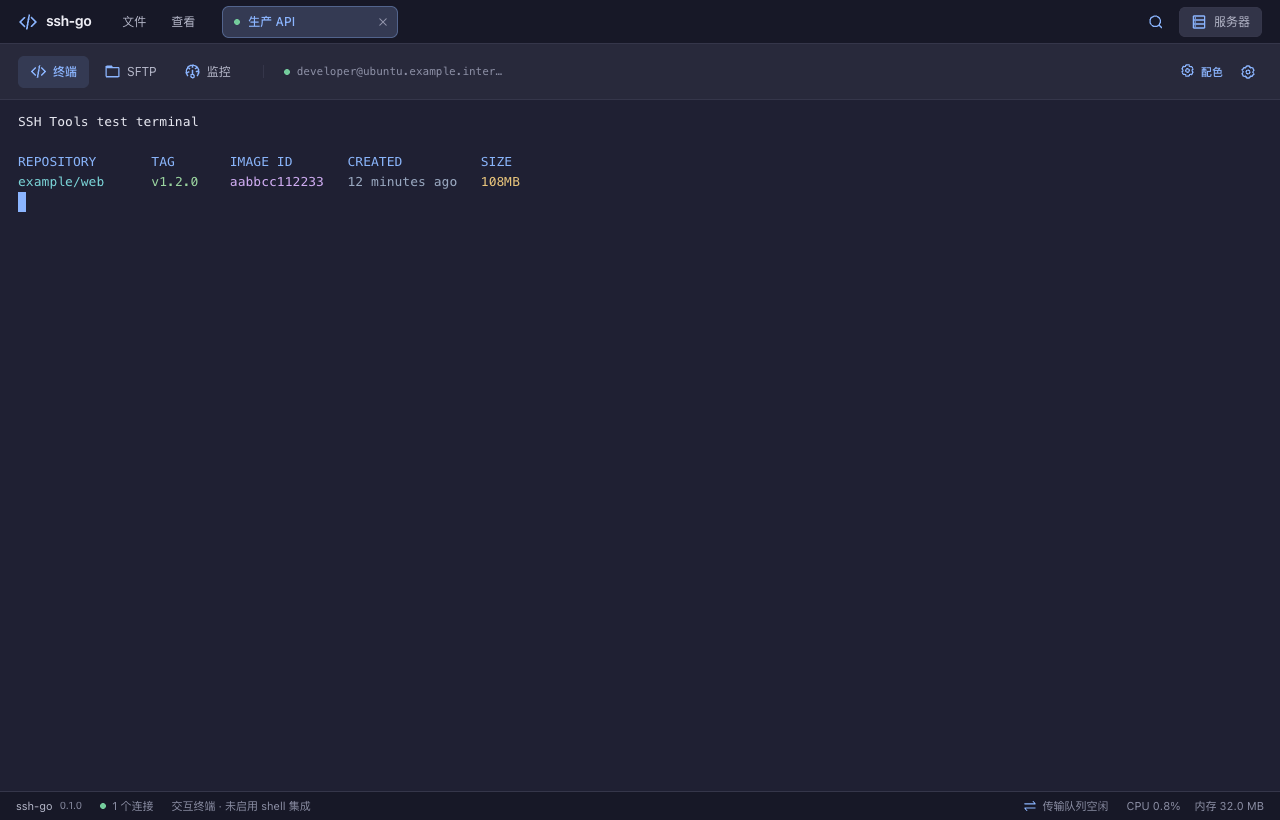
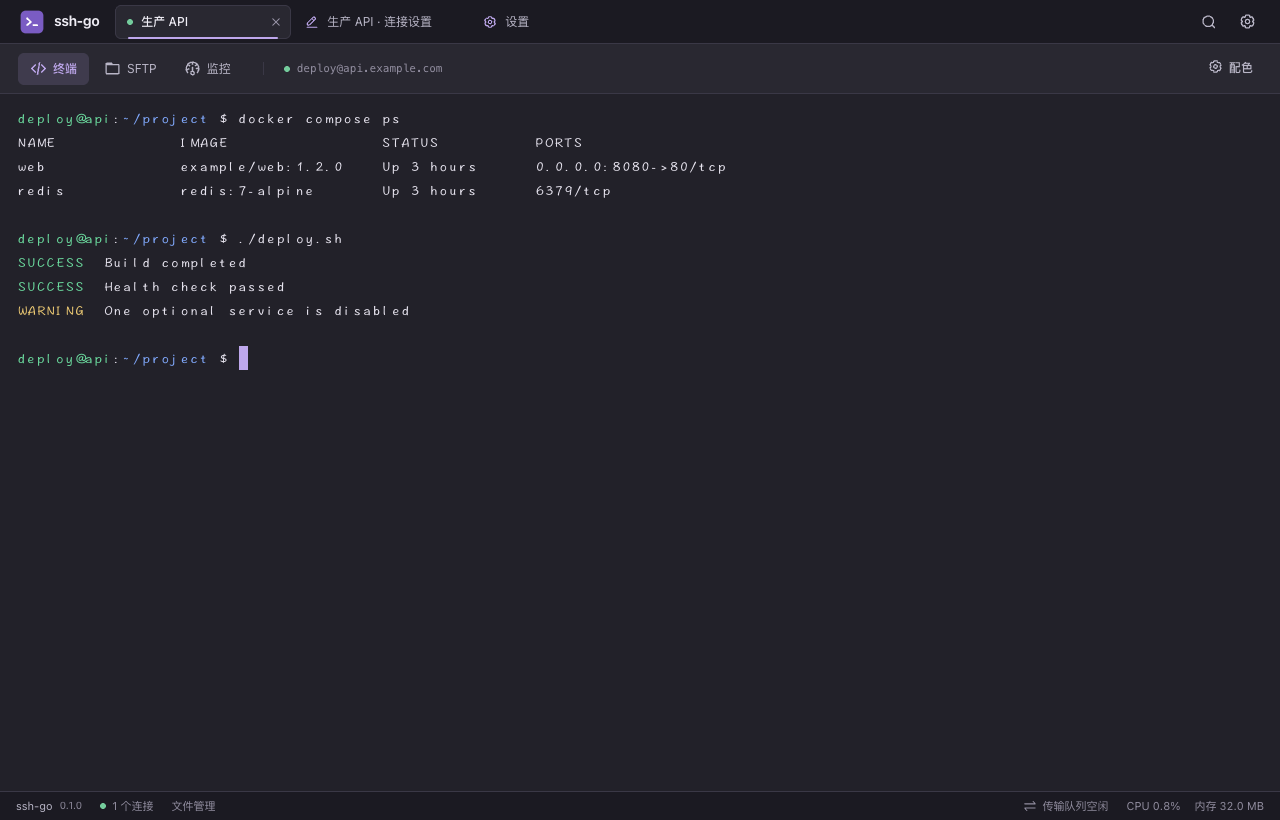
docs: refresh README and current application screenshots

diff --git a/README.md b/README.md
@@ -2,27 +2,56 @@
 
 基于 **Go + Wails 2 + Vue 3** 的桌面 SSH / SFTP 客户端。集中管理服务器连接，在同一工作区使用多会话终端、双栏文件管理和本地端口转发。
 
-当前版本 **0.1.0**，亮色采用飞书风格的蓝白配色与浅灰工作区：顶部应用菜单、全宽服务器卡片、分组筛选和右侧连接详情。macOS 使用系统原生菜单，Windows / Linux 和网页预览提供窗口内菜单。已在 macOS Apple Silicon 完成构建，Windows / Linux 桌面尚未验收。
+当前版本 **0.1.0**。服务器以紧凑卡片排列，SSH 会话、连接设置与全局设置共用顶部标签栏；终端、SFTP 和服务器监控在同一连接内切换。支持亮色、深色、跟随系统与五种主题色，也可读取本机字体并手动配置终端字体和字号。macOS 使用系统原生菜单与窗口控件，支持窗口缩放；Windows / Linux 和网页预览提供窗口内菜单。已在 macOS Apple Silicon 完成构建，Windows / Linux 桌面尚未验收。
+
+![服务器卡片工作区](docs/images/servers.png)
 
 ![服务器监控概览](docs/images/monitor-overview.png)
 
-![服务器卡片工作区](docs/images/servers.png)
+截图由当前界面生成，使用隔离的演示连接和模拟终端、文件与监控数据；系统字体列表取自截图机器，不包含真实服务器凭据。
 
 ## 功能
 
 | 模块 | 已实现 |
 | --- | --- |
-| 连接管理 | 卡片网格、系统识别图标、分组与搜索、右侧详情抽屉、复制、JSON / OpenSSH 配置导入导出 |
+| 连接管理 | 自适应卡片、系统识别图标、分组与搜索、独立连接设置标签、悬浮编辑 / 复制、卡片与空白区域右键菜单、JSON / OpenSSH 配置导入导出 |
 | SSH 认证 | 密码、私钥与加密私钥、SSH Agent、最多 8 层跳板机链 |
 | 服务器身份 | 首次连接逐跳确认指纹；指纹变化时阻止连接 |
-| 终端 | 多会话、PTY 尺寸同步、3000 行回滚、输出流控、ANSI 颜色与显示高亮 |
+| 终端 | 多会话、PTY 尺寸同步、3000 行回滚、输出流控、ANSI 颜色与显示高亮、系统字体读取、自定义字体与字号 |
+| 工作区外观 | 亮色 / 深色 / 跟随系统、五种主题色、原生窗口外观同步、本机保存偏好 |
 | 服务器监控 | Linux CPU / 内存趋势、网络收发速率、磁盘分区、Swap、系统负载与运行时长 |
 | 文件管理 | 本地 / 远程双栏、列表 / 图标展示、虚拟滚动、搜索排序、多选、右键菜单、新建文件 / 多级目录、重命名与删除 |
 | 文件传输 | 跨面板拖拽上传下载、文件 / 目录传输、4 项并发、进度、取消与重试、覆盖冲突检查、中断恢复 |
 | 端口转发 | 通过搜索与操作调用，绑定本地回环地址，支持自动分配端口和显式停止 |
 | 本地存储 | 配置原子写入、AES-256-GCM 加密凭据、连接身份变化时清理旧凭据 |
 
-连接成功后自动读取并缓存操作系统，服务器卡片和详情使用对应系统标识；尚未识别时显示通用服务器图标。点击卡片的「查看详情」打开右侧详情抽屉；单击卡片其他区域不打开详情，双击卡片或聚焦卡片后按 Enter 连接并打开终端，已连接时直接返回该终端。顶部“查看”菜单可回到服务器、搜索操作、打开传输队列或设置；⌘ / Ctrl + N 添加服务器，⌘ / Ctrl + K 搜索，⌘ / Ctrl + , 打开设置。点击左上角 ssh-go 返回全局列表，右上角齿轮打开顶部「设置」标签，旁边的搜索图标保留 ⌘ / Ctrl + K 快捷键。已打开的连接显示在顶部标签栏，点击切换，标签右侧可关闭或移除会话；标签聚焦时，左右方向键、Home / End 可切换，Delete 关闭该标签。连接较多时横向滚动，长名称省略并在悬停时显示完整名称与地址。下方工具栏显示当前连接的终端、SFTP 与监控，切换时保留各自状态；账号与地址紧随监控，采集控制位于右侧。设置可从顶部菜单或工作区设置入口打开。在“设置 → 外观模式”中选择亮色、深色或跟随系统，偏好自动保存在本机；终端同步切换配色，保留当前连接与输出。外观设置还可选择蓝、绿、红、橙、紫主题色，操作图标、按钮、选中态与焦点统一换色，状态提示和终端 ANSI 输出保留原有颜色。
+### 服务器与连接设置
+
+连接成功后自动读取并缓存操作系统，服务器卡片使用对应系统图标；尚未识别时显示通用服务器图标。卡片保留名称与地址，随窗口宽度自动换行。
+
+- **连接**：双击卡片，或聚焦卡片后按 Enter；已经连接时返回原终端。单击卡片不切换页面，也不留下选中高亮。
+- **编辑与复制**：悬浮卡片时显示编辑、复制图标；右键卡片可编辑、复制或删除服务器。
+- **列表操作**：右键空白区域可添加服务器、刷新列表或清除筛选。
+- **连接设置**：编辑后打开「服务器名 · 连接设置」标签，可与其他连接和全局设置来回切换，并保留未保存的表单内容。关闭该标签不会断开 SSH 会话。
+- **已保存密码**：打开连接设置后以黑点显示，点击眼睛图标可查看，再次进入时恢复遮挡。凭据在本机加密保存，连接配置导出不包含密码。
+
+连接设置在默认窗口尺寸下可完整展示常用密码认证表单和底部的「关闭标签页」「保存服务器」按钮。窗口更小或表单更长时，只滚动表单区域，底部操作保持可见。
+
+![连接设置标签页与固定底部操作](docs/images/connection-settings.png)
+
+顶部标签支持鼠标切换；聚焦标签后，左右方向键、Home / End 切换，Delete 关闭当前标签。连接较多时可横向滚动，长名称省略并在悬停时显示完整名称与地址。点击左上角 ssh-go 返回服务器列表，右上角搜索按钮打开搜索与操作，齿轮打开全局设置。⌘ / Ctrl + N 添加服务器，⌘ / Ctrl + K 搜索，⌘ / Ctrl + , 打开设置。
+
+### 终端字体与外观
+
+在「设置 → 终端」中输入名称搜索本机字体，或手动填写字体名称；字号支持 **8–32**。预览确认后点击「应用字体」，立即更新所有已打开的终端，保留连接和已有输出，偏好自动保存在本机。
+
+默认字体为 **手札体-简（Hannotate SC）**，字号 **13**；也可使用原来的 **Menlo**，或选择 Monaco、Courier New 等本机已安装的等宽字体。字体数量取决于当前系统；字体文件由本机提供，无需随软件打包，也不会因读取更多系统字体而增加字体资源体积。未安装的字体会回退，表格与代码建议使用等宽字体。
+
+![系统字体、字号与实时预览](docs/images/settings-fonts.png)
+
+在「设置 → 外观」中选择亮色、深色或跟随系统，界面、终端与原生窗口同步切换，保留当前连接与输出。蓝、绿、红、橙、紫五种主题色统一用于操作图标、按钮、选中态与焦点；状态提示和终端 ANSI 输出保留各自的语义颜色。
+
+### 监控与文件操作
 
 连接服务器后，在「终端 / SFTP / 监控」中选择「监控」，查看宝塔风格的服务器概览：顶部左侧突出系统负载，右侧合并展示 CPU、内存与根分区的大号环形仪表；下方以宽幅流量图搭配资源趋势，系统信息收成紧凑信息带，采集控制位于会话导航最右侧，账号与主机地址紧随「监控」并用竖线分隔。圆环随采样平滑更新，减少动态效果的系统偏好下关闭过渡。趋势图支持悬停查看同一时刻的读数，也可聚焦图表后使用方向键、Home / End 浏览采样点，Esc 收起读数。Linux 指标通过现有 SSH 连接只读采集，无需安装服务；一次采样结束后间隔 3 秒刷新，保留当前连接最近 5 分钟的趋势。首次采样建立基线，CPU 与网络速率从第二次采样开始显示。切换页面、隐藏窗口或手动暂停时停止发起采样，断开后保留最后数据并注明状态；重新连接开始新记录。网络为非回环网卡合计，虚拟网卡可能重复计入流量。macOS / Windows 远端暂不支持监控。
 
@@ -31,19 +60,25 @@ SFTP 两侧可独立切换列表或图标展示，偏好保存在本机。路径
 连接断开时保留原标签、终端输出与文件列表，在页面顶部显示断线原因和「重新连接」按钮；连接过程中禁用重复点击，失败后仍可重试。重连成功后留在原来的终端、SFTP 或监控页，SFTP 回到原来的本地和远程目录。若只是远程终端退出而 SSH 仍连接，则提供「重新打开终端」。后台每 30 秒进行一次有回复的 SSH 存活探测，10 秒未回复则关闭失效连接并更新页面；空闲本身不会触发强制断开。
 
 <details>
-<summary>连接详情、终端与 SFTP 预览</summary>
+<summary>查看更多当前界面：深色模式、终端与 SFTP</summary>
 
-截图使用隔离测试数据，不包含真实服务器配置。
+服务器列表与已打开的工作区标签：
 
 ![深色服务器工作区](docs/images/servers-dark.png)
+
+终端默认使用手札体-简，保留 ANSI 颜色与输出高亮：
+
+![亮色终端](docs/images/terminal.png)
 ![深色终端](docs/images/terminal-dark.png)
-![顶部应用菜单](docs/images/application-menu.png)
-![连接详情抽屉](docs/images/connection-details.png)
-![终端输出高亮](docs/images/terminal.png)
-![单行导航与服务器监控](docs/images/monitor.png)
-![顶部连接标签](docs/images/connection-tabs.png)
-![监控趋势与读数](docs/images/monitor-detail.png)
+
+本地与远程双栏文件管理：
+
 ![双栏文件管理](docs/images/sftp.png)
+![深色双栏文件管理](docs/images/sftp-dark.png)
+
+深色设置与系统字体预览：
+
+![深色设置页](docs/images/settings-dark.png)
 
 </details>
 
@@ -85,9 +120,9 @@ make check
 SSH_TOOLS_CHROMIUM='/Applications/Google Chrome.app/Contents/MacOS/Google Chrome' make check
 ```
 
-`make check` 依次执行前端类型检查与构建、`go vet ./...`、Go 竞态检查和界面回归。Go 测试使用本地隔离的 SSH / SFTP 服务；界面测试使用模拟的 Wails 桥接。测试覆盖连接取消与迟到回包、认证和指纹、端口转发、终端流控、文件传输、覆盖冲突、中断恢复、卡片抽屉、监控采样与暂停、主题色和键盘焦点。
+`make check` 依次执行前端类型检查与构建、`go vet ./...`、Go 竞态检查和界面回归。Go 测试使用本地隔离的 SSH / SFTP 服务；界面测试使用模拟的 Wails 桥接。测试覆盖连接取消与迟到回包、认证和指纹、端口转发、终端流控、文件传输、覆盖冲突、中断恢复、连接设置标签与密码显示、卡片及空白区域右键菜单、系统字体读取与终端字体切换、监控采样与暂停、外观同步、主题色和键盘焦点。
 
-GitHub Actions 工作流已在本地准备，用于 macOS 构建、测试与本机签名校验；当前尚未上传并启用，请先使用上述本地命令验证。
+仓库包含 [GitHub Actions 工作流](.github/workflows/check.yml)，配置为在推送与 Pull Request 时执行 macOS 构建、测试、桌面打包和本机签名校验；运行结果见仓库的 [Actions 页面](https://github.com/ServCore/ssh-go/actions)。也可先使用上述命令在本机验证。
 
 ## 工程结构
 
@@ -100,7 +135,7 @@ ssh-go/
 ├── build/                # 图标与平台配置；bin/ 为构建产物
 ├── scripts/              # Wails 构建包装脚本
 ├── docs/                 # 使用说明、架构、性能记录与项目素材
-├── .github/workflows/    # 持续集成配置，本地保留，待上传
+├── .github/workflows/    # macOS 构建、测试与打包检查
 ├── go.mod / go.sum       # Go 依赖
 ├── wails.json            # 桌面项目配置
 └── Makefile              # 统一开发、构建和检查入口
